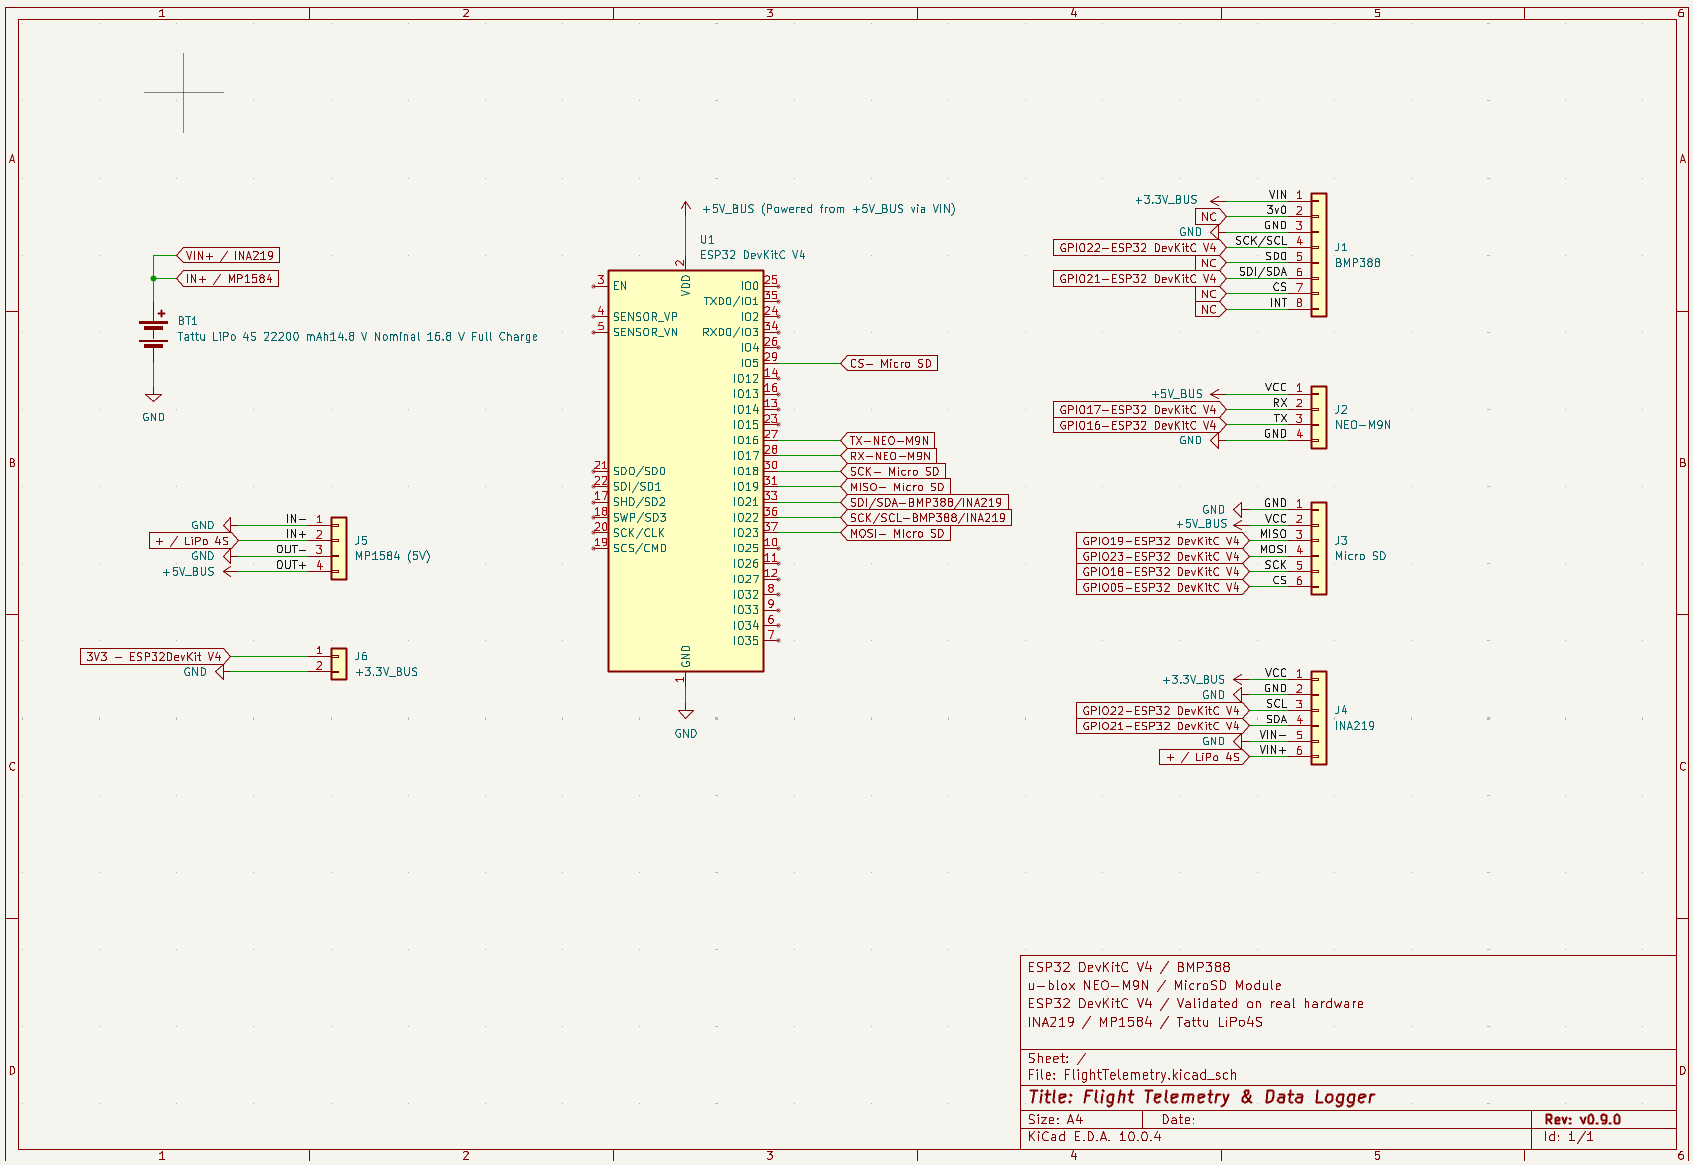
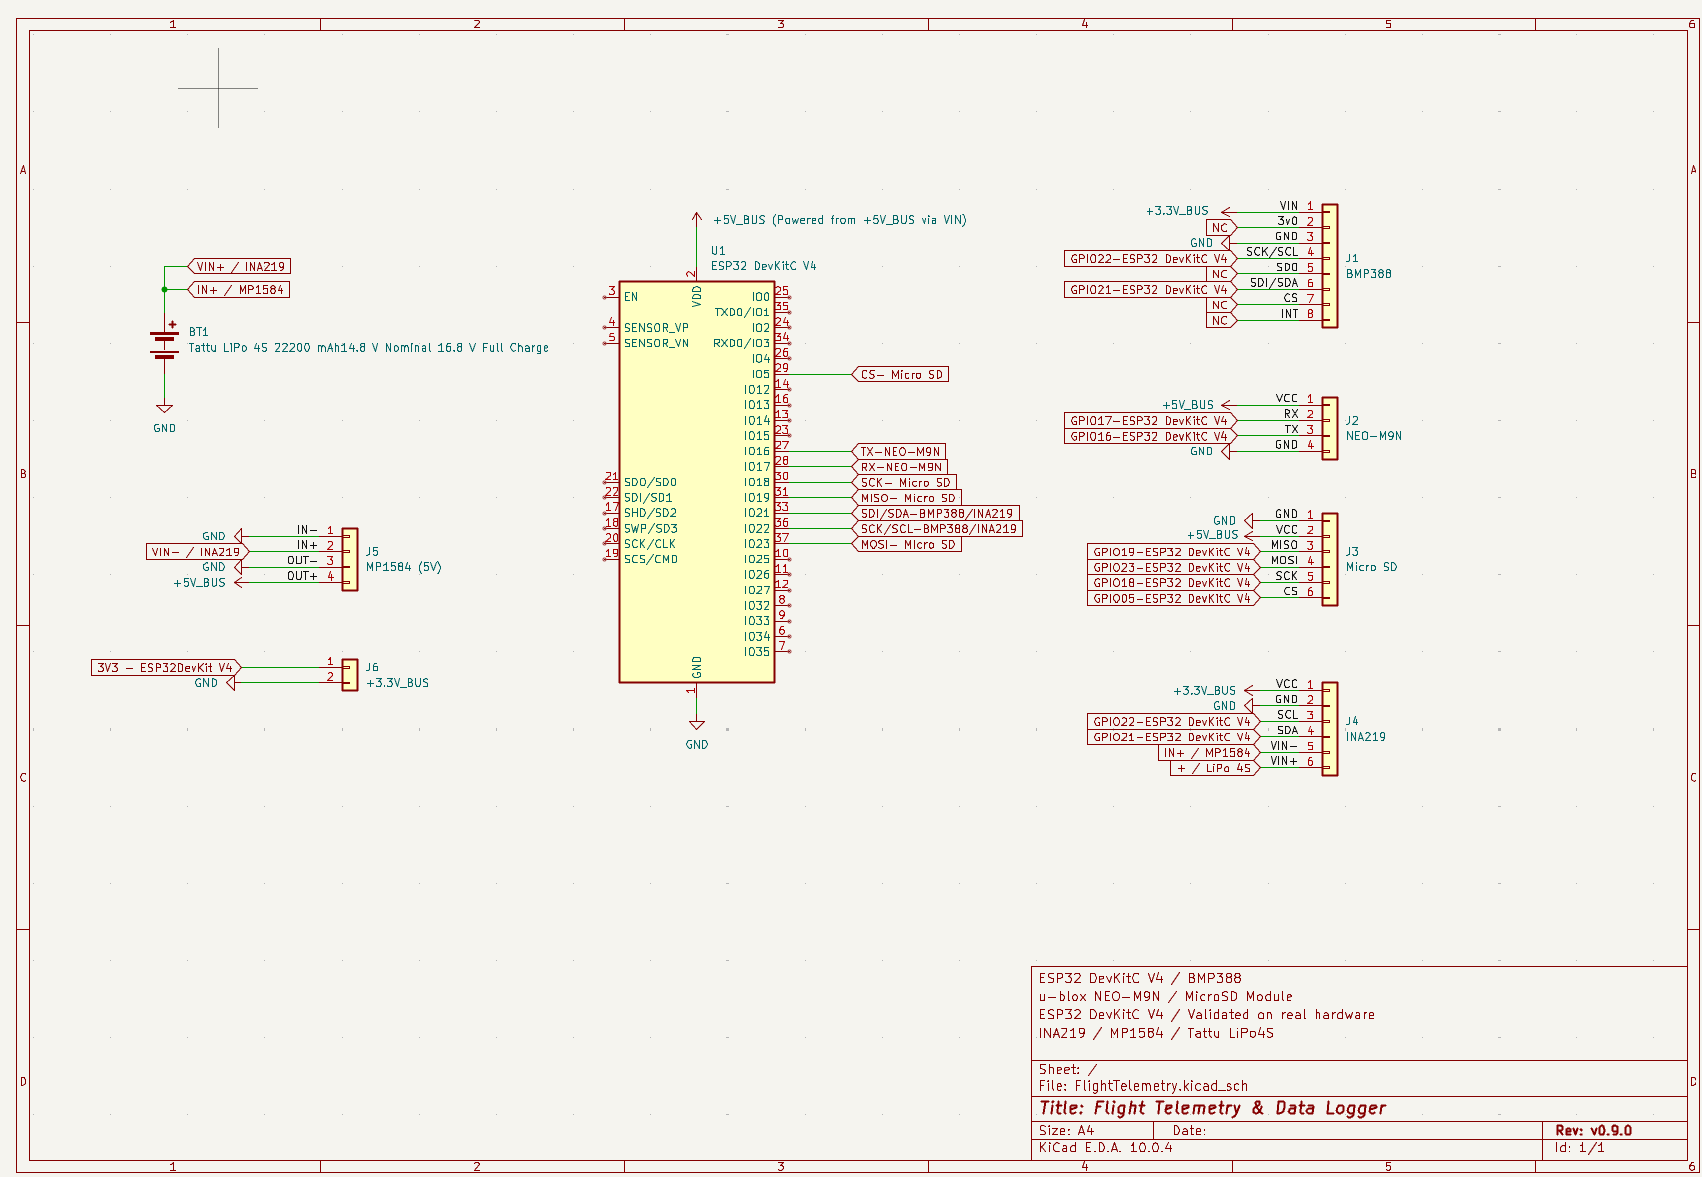
Docs: add Sprint 9 power architecture and INA219 integration

diff --git a/README.md b/README.md
@@ -154,6 +154,74 @@ Power : 5V
 
 ---
 
+## INA219 Current Sensor *(Planned Integration)*
+
+![INA219](docs/images/INA219.png)
+
+Provides:
+
+- Battery Voltage Measurement
+- Current Measurement
+- Power Consumption Monitoring
+- Future MAVLink Battery Telemetry
+
+Configuration:
+
+```text
+Interface : I²C
+
+SDA : GPIO21
+SCL : GPIO22
+
+Power : 3.3V
+```
+
+The INA219 shares the same I²C bus as the BMP388 and is placed between the battery and the MP1584 buck converter to monitor the total system power consumption.
+
+---
+
+## Power System
+
+![Battery](docs/images/Tattu4S.png)
+
+![MP1584](docs/images/MP1584.png)
+
+Architecture:
+
+```text
+Tattu LiPo 4S
+2200 mAh
+14.8V Nominal
+16.8V Full Charge
+
+          │
+          ▼
+
+       INA219
+
+          │
+          ▼
+
+       MP1584
+
+          │
+          ▼
+
+       +5V_BUS
+
+          │
+          ├── ESP32 DevKitC V4
+          ├── NEO-M9N GPS
+          └── MicroSD Module
+
+ESP32 3V3
+          │
+          ├── BMP388
+          └── INA219
+```
+
+The power architecture is designed to provide battery telemetry, current monitoring and future MAVLink power reporting.
+
 # Wiring Diagram
 
 The current hardware architecture includes:
